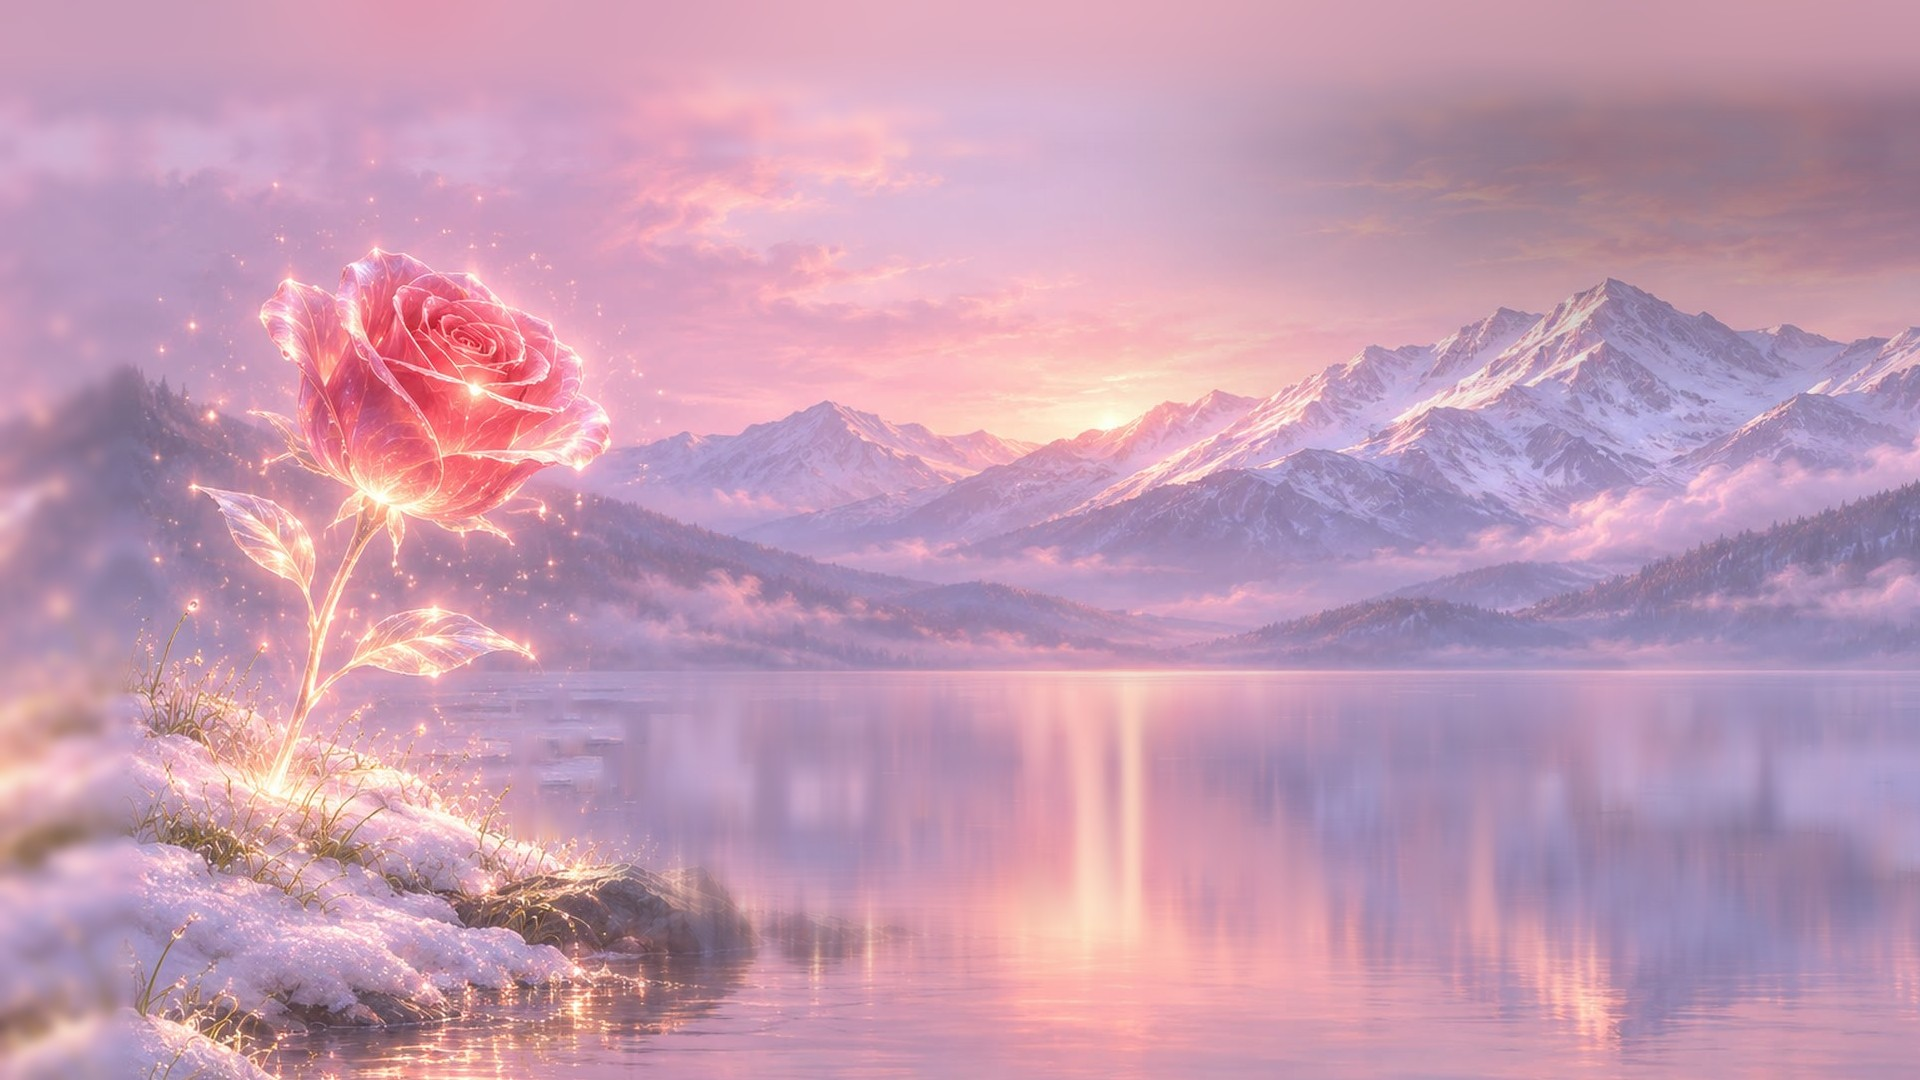
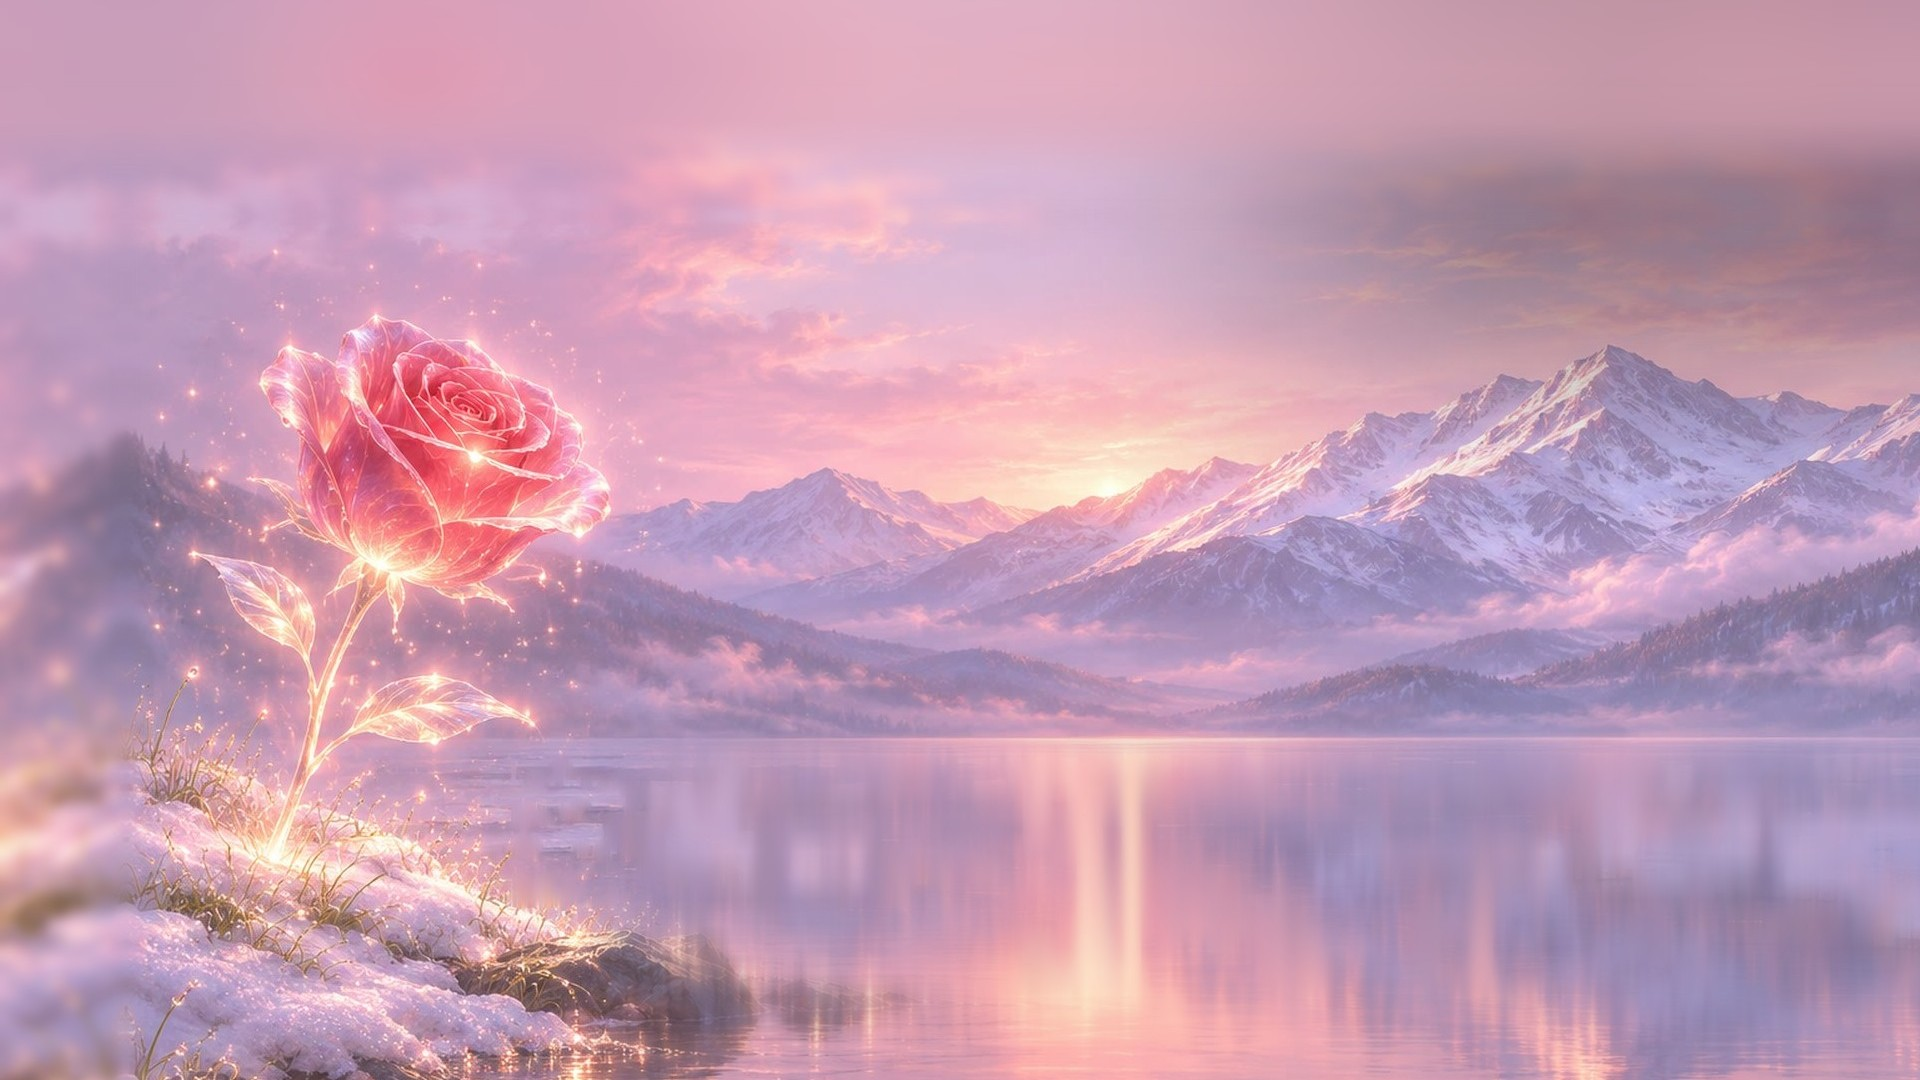
Song 02 polish: trio walks in one pose, end card rose sinks below the title on a padded plate
Claude-Session: https://claude.ai/code/session_01DSHsMeB7ain7qg3RYXYMEW

diff --git a/engine/songs/s02_the_rose.py b/engine/songs/s02_the_rose.py
@@ -198,7 +198,8 @@ AURORA_COOL = ("#c9d8ff", "#e4d8ff")
 # clears the corner title.
 P = "assets/plates/s02/"
 ROSE_GAIN = Track([(0, 0.85), (41.0, 0.85), (42.0, 0.78), (47.0, 0.78), (49.0, 0.86), (51.0, 0.68), (TOTAL, 0.68)])
-ROSE_END_PAN = (0.03, 0.054)       # view moves right and up in the picture: the rose sinks down and left
+ROSE_MID_PAN = (0.0, -0.069)       # at 50: the view looks low in the picture (the rose high, clear of the corner)
+ROSE_END_PAN = (0.05, 0.069)       # from 53: view at the top right of the picture, the rose low on the left
 SCENES = [
     dict(image=P + "a_first_snow.jpg", t0=0.0, t1=13.0, fade_in=1.0, fade_out=2.5,
          zoom=(1.0, 1.10), pan=((0.0, 0.0), (0.0, 0.015)), water=True, water_line=0.36,
@@ -210,15 +211,16 @@ SCENES = [
          zoom=(1.02, 1.12), pan=((0.0, 0.0), (0.0, 0.01)),
          gain=Track([(0, 1.0), (30.5, 1.0), (32.0, 0.82), (TOTAL, 0.82)])),
     # the rose shore holds to the end: the end card stands on the close dawn shore beside the rose. Three
-    # pieces of one camera move that meet exactly (same view at each joint, no fade): a slow push in to 50,
-    # then from 50 to 53 the picture sinks down and left (pan is limited to 0.5 - 0.5/zoom = 0.054 at zoom
-    # 1.12), then it holds still under the end card.
+    # pieces of one camera move that meet exactly (same view at each joint, no fade): a slow push in to 50
+    # while looking low in the picture (the plate is padded with soft sky at the top for this), then from 50
+    # to 53 the view sweeps to the top right of the picture so the rose sinks down and left under the end
+    # card's title (pan is limited to 0.5 - 0.5/zoom = 0.069 at zoom 1.16), then it holds still.
     dict(image=P + "e_rose_shore.jpg", t0=39.7, t1=50.0, fade_in=2.5, fade_out=0.0, transition="fade",
-         zoom=(1.06, 1.12), pan=((0.0, 0.0), (0.0, 0.0)), gain=ROSE_GAIN),
+         zoom=(1.06, 1.16), pan=((0.0, -0.028), ROSE_MID_PAN), gain=ROSE_GAIN),
     dict(image=P + "e_rose_shore.jpg", t0=50.0, t1=53.0, fade_in=0.0, fade_out=0.0, transition="fade",
-         zoom=(1.12, 1.12), pan=((0.0, 0.0), ROSE_END_PAN), gain=ROSE_GAIN),
+         zoom=(1.16, 1.16), pan=(ROSE_MID_PAN, ROSE_END_PAN), gain=ROSE_GAIN),
     dict(image=P + "e_rose_shore.jpg", t0=53.0, t1=61.0, fade_in=0.0, fade_out=0.0, transition="fade",
-         zoom=(1.12, 1.12), pan=(ROSE_END_PAN, ROSE_END_PAN), gain=ROSE_GAIN),
+         zoom=(1.16, 1.16), pan=(ROSE_END_PAN, ROSE_END_PAN), gain=ROSE_GAIN),
 ]
 
 # ----------------------------------------------------------------- effect layers
@@ -250,11 +252,12 @@ for i in range(9):
 SF = "assets/song_figures/s02/"
 # Polish pass: the group is secondary, small and far back on the snowfield (feet near the horizon), well left
 # of the violet column, and travels a long way: x 0.45 to 0.15 in 4.4 seconds while rising off the ground as
-# it dissolves (engine figure motion, UPGRADE-HOWTO section G). Pose 3 (the traveler standing with them; its
-# raised lantern masked out, it read as a fifth head) is whole for under a second before the dissolve.
+# it dissolves (engine figure motion, UPGRADE-HOWTO section G). One pose only, the women walking with the
+# traveler (trio_3_rise, its raised lantern masked out; it read as a fifth head): a pose change at this size
+# showed as a bright blob of sparks, so the group gathers already walking and dissolves straight out of it.
 FIGURES = [
-    dict(poses=[SF + "trio_2_encourage.png", SF + "trio_3_rise.png"],
-         t0=FIG_IN, t1=14.0, gather=1.0, pose_times=[13.0], morph=0.6, dissolve=2.2, leave="drift",
+    dict(poses=[SF + "trio_3_rise.png"],
+         t0=FIG_IN, t1=14.0, gather=1.0, dissolve=2.2, leave="drift",
          x=(0.45, 0.15), move=(FIG_IN, 16.2), ease="linear", bob=1.0,
          y=Track([(0.0, 0.43), (FIG_IN, 0.43), (13.6, 0.44), (16.2, 0.52), (TOTAL, 0.52)]),
          height=0.19, color="#ffd9a8", glow=0.5),   # pale gold, small, never the brightest thing on screen
